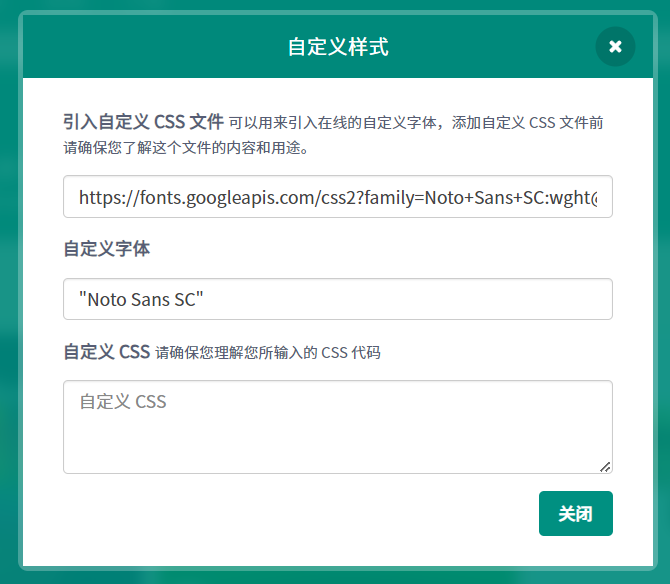
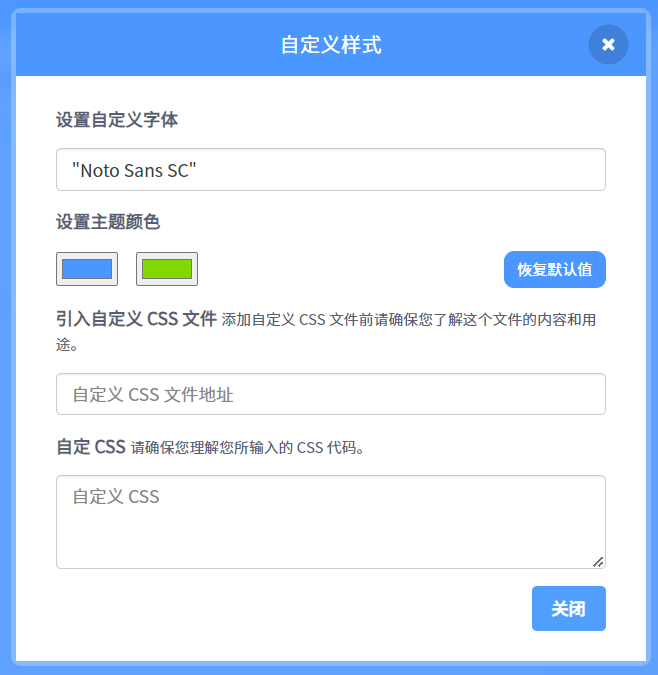
🔧将设置主题色并入自定义样式（个性化样式）中

diff --git a/aerfaying-explore.user.js b/aerfaying-explore.user.js
@@ -1,7 +1,7 @@
 // ==UserScript==
 // @name         Aerfaying Explore - 阿儿法营/稽木世界社区优化插件
 // @namespace    waterblock79.github.io
-// @version      1.19.1
+// @version      1.19.2
 // @description  提供优化、补丁及小功能提升社区内的探索效率和用户体验
 // @author       waterblock79
 // @match        http://gitblock.cn/*
@@ -32,7 +32,10 @@
             alert('似乎无法在您的浏览器上运行此脚本。')
         }
     }
-    const version = '1.19.1';
+    const version = '1.19.2';
+
+    const DEFAULT_MAIN_COLOR = '#4c97ff',
+          DEFAULT_SECOND_COLOR = '#82d900';
 
     if (location.search === '?NoUserscript') return;
 
@@ -289,12 +292,6 @@
         default: false,
         desp: '优化了主页的样式、提供了实用功能。'
     }, {
-        tag: 'explore:customThemeColor',
-        text: '自定义主题色',
-        type: 'check',
-        default: false,
-        desp: '<a onclick="window.openThemeSettingModal()">前往设置颜色</a>'
-    }, {
         tag: 'explore:modalBackgroundBlur',
         text: '对话框背景虚化',
         type: 'check',
@@ -414,6 +411,94 @@
             }
             html += '</div>';
         });
+        // 自定义样式
+        html += `
+            <div style="
+                display: flex;
+                justify-content: space-between;
+                align-items: center;
+                margin: 1em 0;
+            ">
+                <div style="margin: 0.3em 0">
+                    <b style="display: block">个性化样式</b>
+                    <small>设置主题色、自定义字体、添加自定 CSS...</small>
+                </div>
+                <a onclick="window.openCustomStyle()">前往设置</a>
+            </div>
+        `;
+        window.openCustomStyle = () => {
+            Blockey.Utils.confirm('自定义样式', `
+                <div style="
+                    gap: 1em;
+                    display: flex;
+                    flex-direction: column;
+                    margin-bottom: 1em;
+                ">
+                    <b>设置自定义字体</b>
+                    <input type="text" class="form-control customFont" placeholder="自定义字体名称" onChange="window.setCustomStyle('font', event.target.value)">
+                    
+                    <b>设置主题颜色</b>
+                    <div style="
+                        display: flex;
+                        justify-content: space-between;
+                        align-items: center;
+                    ">
+                        <div style="
+                            display: flex;
+                            gap: 1em;
+                        ">
+                            <input type="color" id="mainColor" onchange="window.setCustomStyle('mainColor', event.target.value)">
+                            <input type="color" id="secondColor" onchange="window.setCustomStyle('secondColor', event.target.value)">
+                        </div>
+                        <button class="btn btn-primary btn-sm" onclick="window.setCustomStyle('defaultTheme')">恢复默认值</button>
+                    </div>
+
+                    <div>
+                        <b>引入自定义 CSS 文件</b>
+                        <small>添加自定义 CSS 文件前请确保您了解这个文件的内容和用途。</small>
+                    </div>
+                    <input type="text" class="form-control customCSSFile" placeholder="自定义 CSS 文件地址" onChange="window.setCustomStyle('cssFile', event.target.value)">
+
+                    <div>
+                        <b>自定 CSS</b>
+                        <small>请确保您理解您所输入的 CSS 代码。</small>
+                    </div>
+                    <textarea 
+                        class="form-control customCSS"
+                        placeholder="自定义 CSS"
+                        style="resize: vertical;"
+                        onChange="window.setCustomStyle('css', event.target.value)"
+                    ></textarea>
+                </div>
+            `);
+            window.setCustomStyle = function (name, value) {
+                if (name == 'cssFile') {
+                    localStorage['explore:customCSSFile'] = value;
+                } else if (name == 'font') {
+                    localStorage['explore:customFont'] = value;
+                } else if (name == 'css') {
+                    localStorage['explore:customCSS'] = value;
+                } else if (name == 'mainColor') {
+                    localStorage['explore:mainColor'] = value;
+                    window.applyThemeColor();
+                    $('.ok-button')[0].style.background = value;
+                    $('.ok-button')[0].style.border = value;
+                } else if (name == 'secondColor') {
+                    localStorage['explore:secondColor'] = value;
+                    window.applyThemeColor();
+                } else if (name == 'defaultTheme') {
+                    window.setCustomStyle('mainColor', DEFAULT_MAIN_COLOR);
+                    window.setCustomStyle('secondColor', DEFAULT_SECOND_COLOR);
+                    $('#mainColor')[0].value = localStorage['explore:mainColor'];
+                    $('#secondColor')[0].value = localStorage['explore:secondColor'];
+                }
+            };
+            localStorage['explore:customCSS'] && ($('.customCSS')[0].value = localStorage['explore:customCSS']);
+            localStorage['explore:customCSSFile'] && ($('.customCSSFile')[0].value = localStorage['explore:customCSSFile']);
+            localStorage['explore:customFont'] && ($('.customFont')[0].value = localStorage['explore:customFont']);
+            $('#mainColor')[0].value = localStorage['explore:mainColor'];
+            $('#secondColor')[0].value = localStorage['explore:secondColor'];
+        }
         // 自动跳转设置
         html += `
             <div style="
@@ -471,63 +556,6 @@
                 Blockey.Utils.Alerter.info('复制到剪贴板失败');
             }
         };
-        // 自定义样式
-        html += `
-            <div style="
-                display: flex;
-                justify-content: space-between;
-                align-items: center;
-                margin: 1em 0;
-            ">
-                <div style="margin: 0.3em 0">
-                    <b style="display: block">自定义样式</b>
-                    <small>自定义字体、隐藏元素...</small>
-                </div>
-                <a onclick="window.openCustomStyle()">设置</a>
-            </div>
-        `;
-        window.openCustomStyle = () => {
-            Blockey.Utils.confirm('自定义样式', `
-                <div style="
-                    gap: 1em;
-                    display: flex;
-                    flex-direction: column;
-                    margin-bottom: 1em;
-                ">
-                    <b>设置自定义字体</b>
-                    <input type="text" class="form-control customFont" placeholder="自定义字体名称" onChange="window.setCustomStyle('font', event.target.value)">
-                    
-                    <div>
-                        <b>引入自定义 CSS 文件</b>
-                        <small>添加自定义 CSS 文件前请确保您了解这个文件的内容和用途。</small>
-                    </div>
-                    <input type="text" class="form-control customCSSFile" placeholder="自定义 CSS 文件地址" onChange="window.setCustomStyle('cssFile', event.target.value)">
-
-                    <div>
-                        <b>自定 CSS</b>
-                        <small>请确保您理解您所输入的 CSS 代码。</small>
-                    </div>
-                    <textarea 
-                        class="form-control customCSS"
-                        placeholder="自定义 CSS"
-                        style="resize: vertical;"
-                        onChange="window.setCustomStyle('css', event.target.value)"
-                    ></textarea>
-                </div>
-            `);
-            window.setCustomStyle = (name, value) => {
-                if (name == 'cssFile') {
-                    localStorage['explore:customCSSFile'] = value;
-                } else if (name == 'font') {
-                    localStorage['explore:customFont'] = value;
-                } else if (name == 'css') {
-                    localStorage['explore:customCSS'] = value;
-                }
-            };
-            localStorage['explore:customCSS'] && ($('.customCSS')[0].value = localStorage['explore:customCSS']);
-            localStorage['explore:customCSSFile'] && ($('.customCSSFile')[0].value = localStorage['explore:customCSSFile']);
-            localStorage['explore:customFont'] && ($('.customFont')[0].value = localStorage['explore:customFont']);
-        }
         window.aerfayingExplore.importConfig = () => {
             Blockey.Utils.prompt('导入配置').then((data) => {
                 try {
@@ -2455,50 +2483,9 @@
         tip.addEventListener('click', event => { event.target == tip && showOldTips() });
     })
 
-    // 设置主题色
-    window.openThemeSettingModal = () => {
-        addStyle(`
-            .explore-set-themeColor {       
-                display: flex;
-                gap: 1em;
-                align-items: center;
-                font-weight: 600;
-            }
-        `)
-        Blockey.Utils.confirm('设置主题色', `
-            <div style="
-                display: flex;
-                justify-content: center;
-                flex-direction: column;
-                align-items: center;
-            ">
-                <div class="explore-set-themeColor">
-                    主颜色
-                    <input type="color" id="mainColor" value="${localStorage['explore:mainColor']}" onchange="localStorage['explore:mainColor'] = event.target.value; applyThemeColor();">
-                </div>
-                <div class="explore-set-themeColor" style="margin: 0.5em 0">
-                    副颜色
-                    <input type="color" id="secondColor" value="${localStorage['explore:secondColor']}" onchange="localStorage['explore:secondColor'] = event.target.value; applyThemeColor();">
-                </div>
-                <button class="btn btn-primary btn-sm" onclick="
-                    localStorage['explore:mainColor'] = '#00897B';
-                    localStorage['explore:secondColor'] = '#4CAF50';
-                    applyThemeColor();
-                    document.querySelector('#mainColor').value = '#00897B';
-                    document.querySelector('#secondColor').value = '#4CAF50';
-                ">恢复默认值</button>
-            </div>
-        `);
-        let interval = setInterval(() => {
-            if ($('.footer').length) {
-                $('.footer')[0].style.display = 'none';
-                clearInterval(interval);
-            }
-        });
-    }
     // 设置默认主题色
-    if (!localStorage['explore:mainColor']) localStorage['explore:mainColor'] = '#00897B';
-    if (!localStorage['explore:secondColor']) localStorage['explore:secondColor'] = '#4CAF50';
+    if (!localStorage['explore:mainColor']) localStorage['explore:mainColor'] = DEFAULT_MAIN_COLOR;
+    if (!localStorage['explore:secondColor']) localStorage['explore:secondColor'] = DEFAULT_SECOND_COLOR;
     // 应用主题色函数
     window.applyThemeColor = () => {
         // mainColor: "#008080", mainColorRGBValue: "0, 128, 128", mainColorRGB: "rgb(0, 128, 128, 1)"
@@ -2592,7 +2579,12 @@
         });
     };
     // 应用自定义主题色
-    (localStorage['explore:customThemeColor'] == 'true') && applyThemeColor();
+    if (localStorage['explore:customThemeColor'] && localStorage['explore:customThemeColor'] != 'true') {
+        localStorage['explore:mainColor'] = DEFAULT_MAIN_COLOR;
+        localStorage['explore:secondColor'] = DEFAULT_SECOND_COLOR;
+        localStorage.removeItem('explore:customThemeColor');
+    }
+    (localStorage['explore:mainColor'] != DEFAULT_MAIN_COLOR || localStorage['explore:secondColor'] != DEFAULT_SECOND_COLOR) && applyThemeColor();
 
     // 查看活跃度等级值
     addFindElement(`.stat-graph_day-0_idJxi`, e => e.title = '等级 0 / 4');
